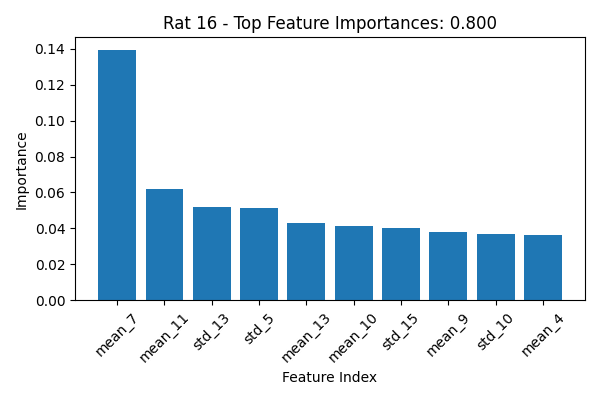
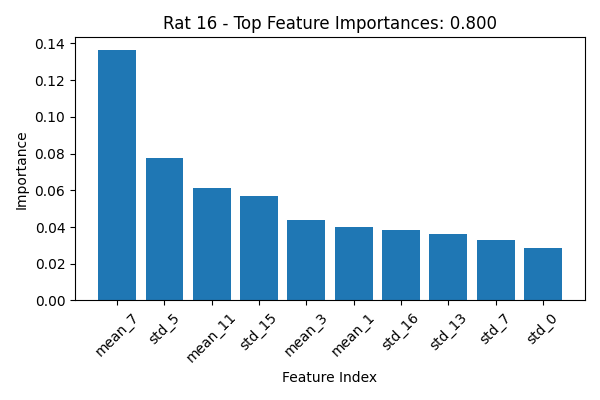
balanced weighting, still always picking no press

diff --git a/src/cluster_explore.py b/src/cluster_explore.py
@@ -38,7 +38,7 @@ def neuron_per_trial():
     [mean_n1, mean_n2, ..., mean_nn, std_n1, std_n2, ..., std_nn]
     This loses temporal data. Will be improved later.
     """
-    from sklearn.metrics import accuracy_score, confusion_matrix
+    from sklearn.metrics import accuracy_score, confusion_matrix, classification_report
     from sklearn.linear_model import LogisticRegression
     from sklearn.ensemble import RandomForestClassifier
     from sklearn.model_selection import train_test_split
@@ -84,16 +84,20 @@ def neuron_per_trial():
         print(f"Training model for Rat {rat_id}")
 
         X_train, X_test, y_train, y_test = train_test_split(X_neg, y_neg, test_size=0.2, stratify=y_neg, random_state=42)
-        clf = LogisticRegression(max_iter=1000)
-        clf = RandomForestClassifier(n_estimators=100, random_state=42)
+        # clf = LogisticRegression(max_iter=1000)
+        clf = RandomForestClassifier(n_estimators=100, random_state=42, class_weight='balanced')
         clf.fit(X_train, y_train)
 
         y_pred = clf.predict(X_test)
         acc = accuracy_score(y_test, y_pred)
-        cm = confusion_matrix(y_test, y_pred)
         print(f"  ✅ Accuracy: {acc:.3f}")
-        print("  Confusion matrix:")
-        print(cm)
+        print(classification_report(
+            y_test,
+            y_pred,
+            labels=[0, 1],  # Expect both classes
+            target_names=['No Press', 'Press'],
+            zero_division=0  # Avoid division errors when precision/recall is undefined
+        ))
 
         importances = clf.feature_importances_
         indices = np.argsort(importances)[::-1]
